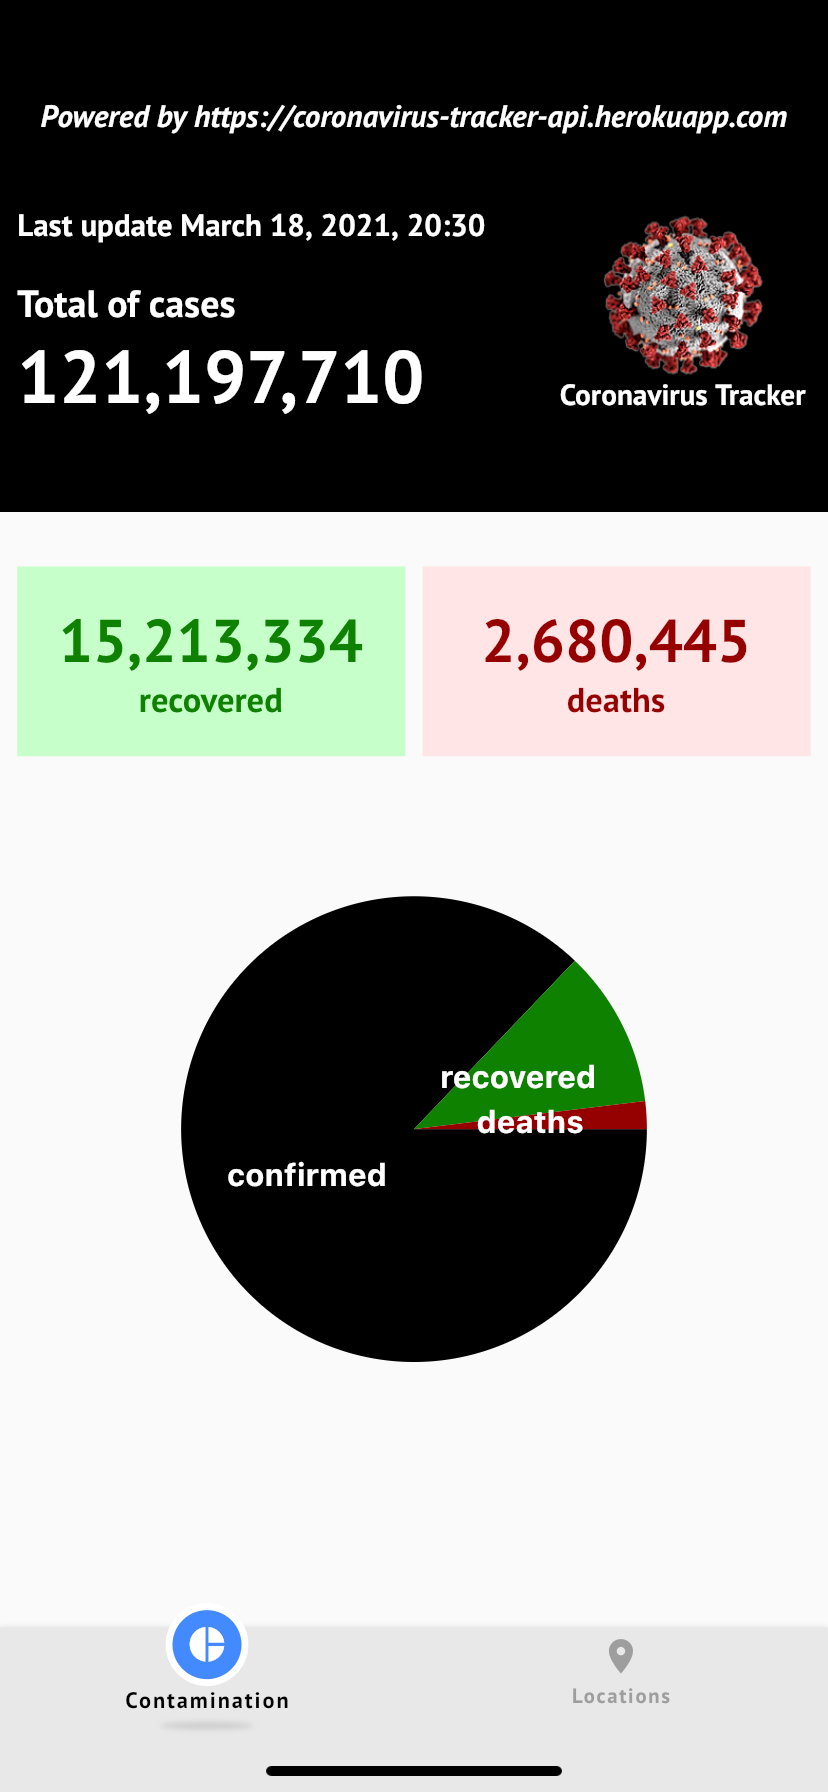
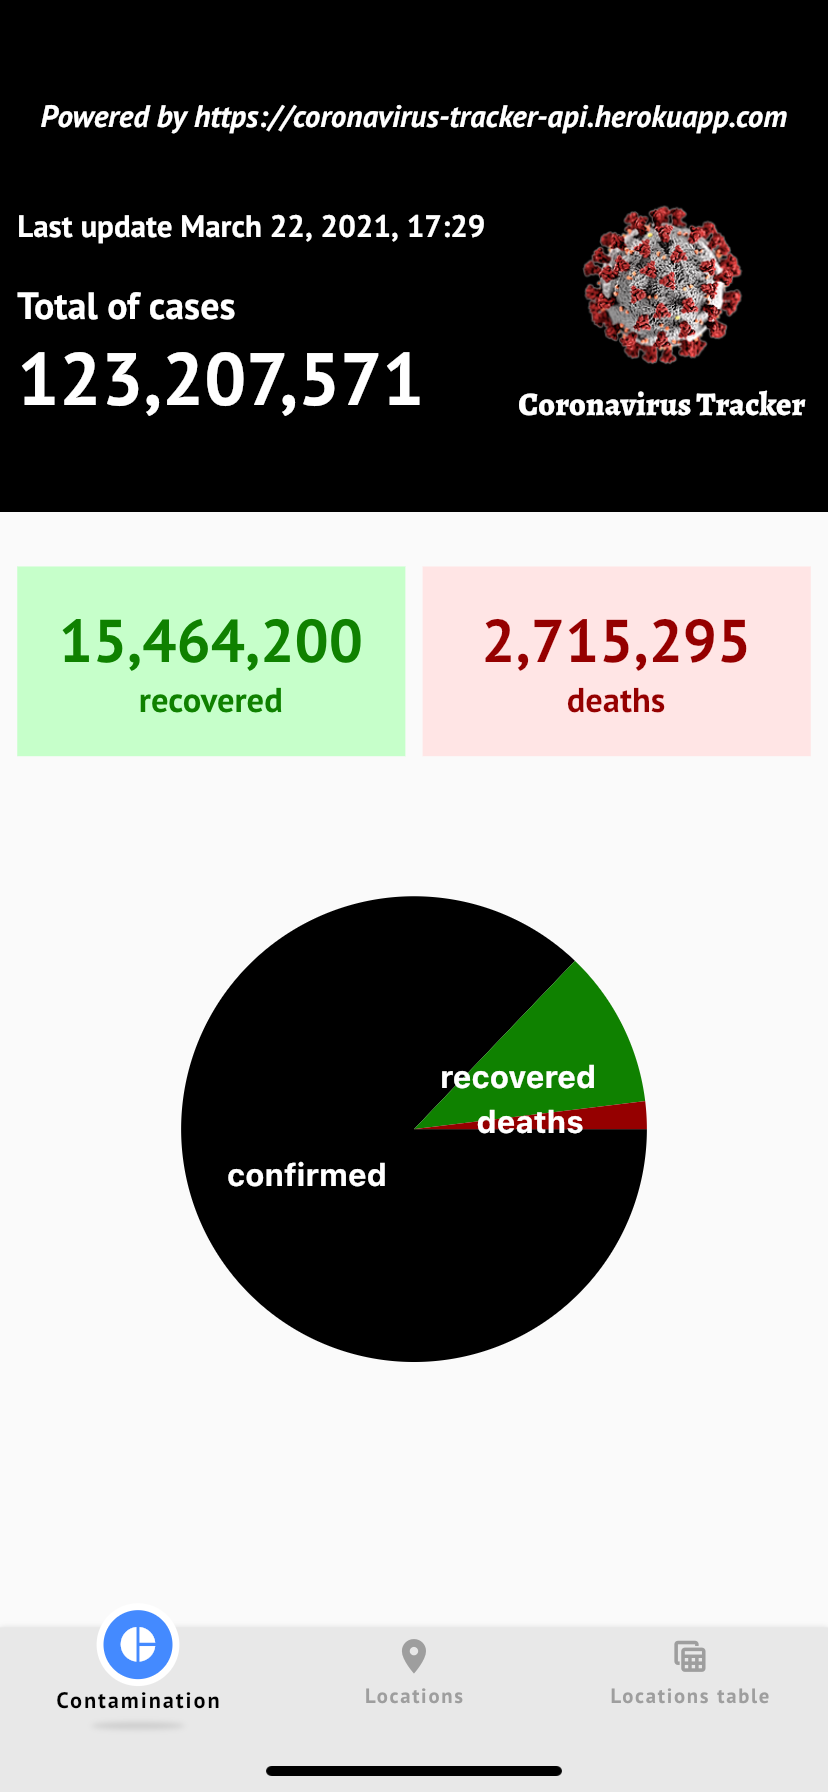
Locations table readme.

diff --git a/README.md b/README.md
@@ -44,6 +44,12 @@ Dados de contaminação de cada país. Nesse caso é um mapa com um marcador par
 
 ![Alt Text](images/location_data.gif)
 
+### Tabela dos dados de localidades (Locations table tab)
+
+O relatório de dados por localidade, por ser uma consulta individual, não permite uma visão abrangente sobre as contaminações do coronavirus ao redor do mundo, como, por exemplo, quais os países com o maior e menor números de confirmados, recuperados e mortos.
+
+![Alt Text](images/location_table_data.gif)
+
 ## Erros
 
 A aplicação pode apresentar os seguintes erros:
